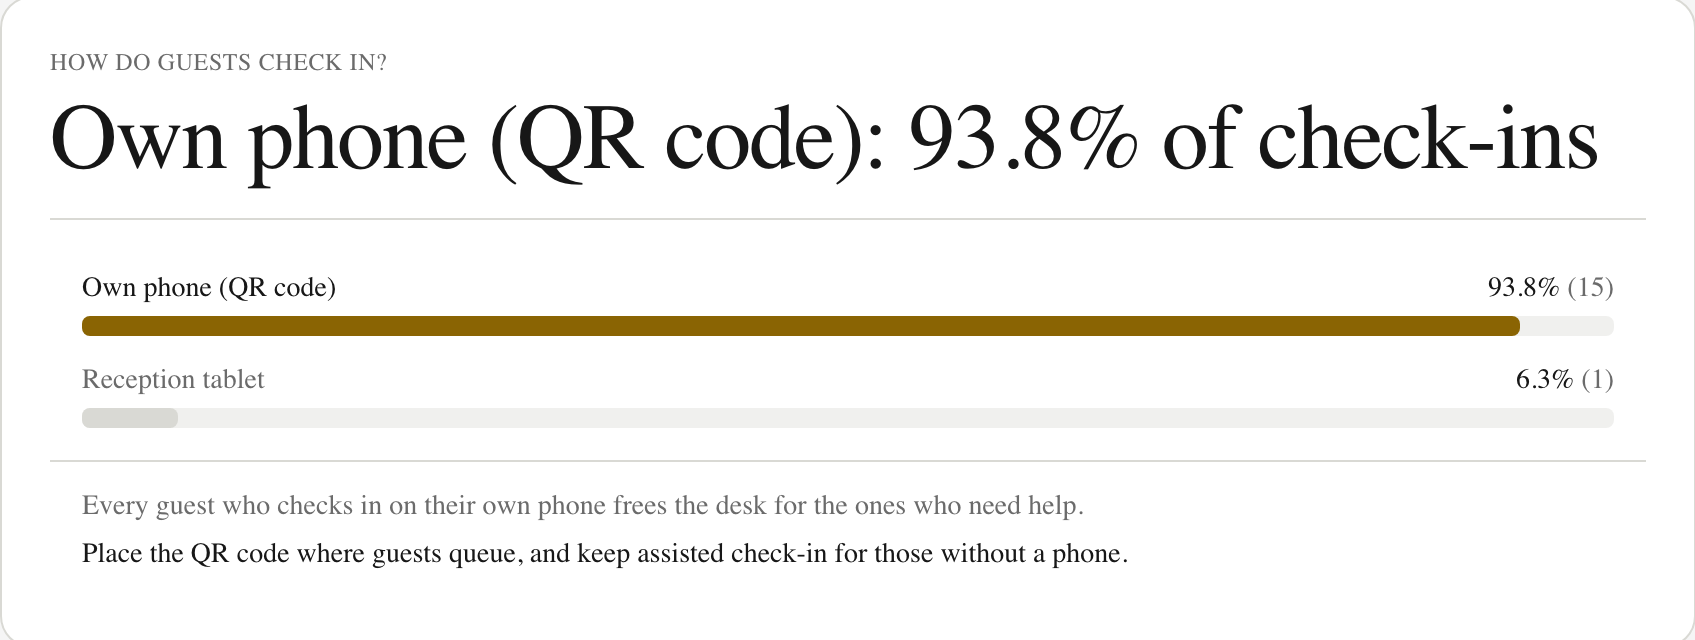
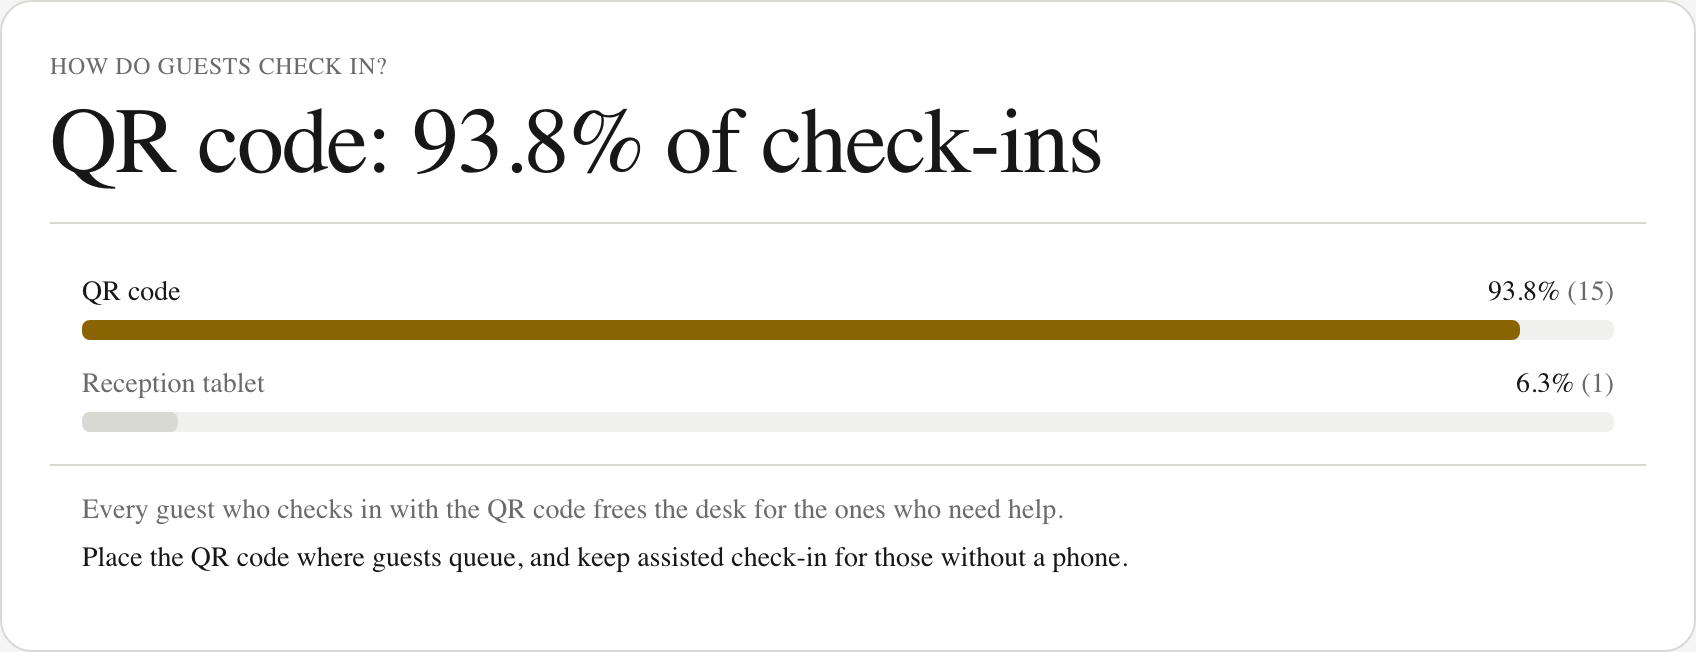
fix(copy): label QR check-in as "QR code"; drop home reporting band
Admin channel label and KPI read "QR code" instead of "own phone"; website
channel panel recaptured to match. Home page reporting band removed at the
product owner's request (section stays on /platform#reporting).

diff --git a/website/src/app/(marketing)/page.tsx b/website/src/app/(marketing)/page.tsx
@@ -9,7 +9,6 @@ import { MarketingHero } from "@/components/marketing/marketing-hero";
 import { MarketingPageClose } from "@/components/marketing/marketing-page-close";
 import { MarketingProductScreenshot } from "@/components/marketing/marketing-product-screenshot";
 import { PhoneProductFrame } from "@/components/marketing/phone-product-frame";
-import { REPORTING_ANCHOR, reportingCopy } from "@/lib/copy/reporting";
 import { MARKETING_SECONDARY_PRICING_CTA } from "@/lib/copy/signup";
 import { marketingCapabilityCard, marketingFeatureCard, marketingLead } from "@/lib/marketing-layout";
 import { MARKETING_HERO_IMAGES } from "@/lib/marketing-visuals";
@@ -271,23 +270,6 @@ export default function HomePage() {
               focusClassName="object-[30%_0%]"
             />
           </div>
-        </div>
-      </section>
-
-      <section className="border-b border-border bg-background">
-        <div className="mx-auto flex min-w-0 max-w-7xl flex-col gap-4 px-4 py-12 sm:px-6 md:flex-row md:items-end md:justify-between lg:px-8">
-          <div className="max-w-2xl">
-            <h2 className="font-heading text-2xl font-light tracking-tight text-foreground sm:text-3xl">
-              {reportingCopy.homeBand.title}
-            </h2>
-            <p className="mt-3 text-muted-foreground">{reportingCopy.homeBand.body}</p>
-          </div>
-          <Link
-            href={`/platform#${REPORTING_ANCHOR}`}
-            className="inline-flex shrink-0 items-center rounded-md border border-border px-6 py-3 text-sm font-medium text-foreground transition-colors hover:bg-muted"
-          >
-            {reportingCopy.homeBand.link}
-          </Link>
         </div>
       </section>
 

diff --git a/admin/src/lib/copy/analytics.ts b/admin/src/lib/copy/analytics.ts
@@ -7,7 +7,7 @@ export const WEEKDAYS_SHORT = ["Mon", "Tue", "Wed", "Thu", "Fri", "Sat", "Sun"] 
 
 /** Clearer names for arrival channels than the internal type labels. */
 export const CHANNEL_LABELS: Record<string, string> = {
-  qr: "Own phone (QR code)",
+  qr: "QR code",
   assisted: "Receptionist-assisted",
   kiosk: "Reception tablet",
   nfc_badge: "Badge",
@@ -37,7 +37,7 @@ export const analyticsCopy = {
   kpis: {
     checkIns: "Check-ins",
     avgMinutes: "Average time on site",
-    ownPhone: "Checked in on own phone",
+    ownPhone: "Checked in by QR code",
     offline: "Captured offline",
     minutes: (n: number) => `${n} min`,
     percent: (n: number) => `${n}%`,
@@ -75,7 +75,7 @@ export const analyticsCopy = {
   channels: {
     question: "How do guests check in?",
     finding: (label: string, pct: number) => `${label}: ${pct}% of check-ins`,
-    why: "Every guest who checks in on their own phone frees the desk for the ones who need help.",
+    why: "Every guest who checks in with the QR code frees the desk for the ones who need help.",
     next: "Place the QR code where guests queue, and keep assisted check-in for those without a phone.",
     empty: "No check-ins in this period yet.",
   },

diff --git a/website/src/lib/copy/reporting.ts b/website/src/lib/copy/reporting.ts
@@ -40,9 +40,9 @@ export const reportingCopy = {
     },
     channels: {
       src: "/screenshots/analytics-channels.png",
-      width: 1695,
-      height: 640,
-      alt: "Share of check-ins by channel, led by guests checking in on their own phone.",
+      width: 1696,
+      height: 652,
+      alt: "Share of check-ins by channel, led by QR code check-in.",
       caption: "How guests check in, and what to change at the desk.",
     },
     visitorTypes: {
@@ -77,9 +77,4 @@ export const reportingCopy = {
       answer: "Anonymised regional arrival statistics, with small counts withheld, are available on request.",
     },
   ],
-  homeBand: {
-    title: "Reports your auditor can check.",
-    body: "Busy hours, arrival forecasts and check-in mix, built from counts rather than guest details, and reconciled every hour.",
-    link: "How we report",
-  },
 } as const;
